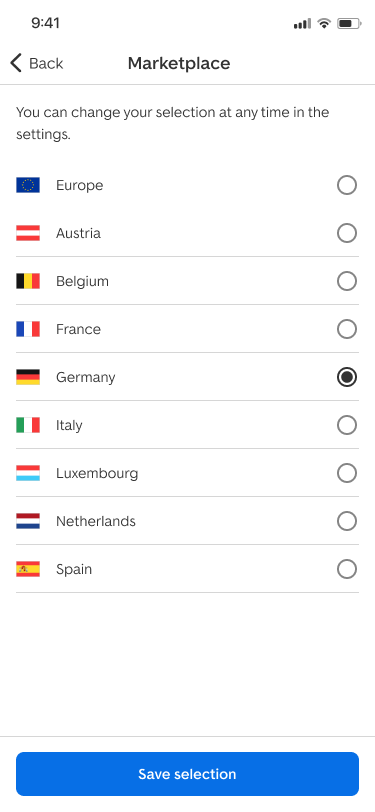
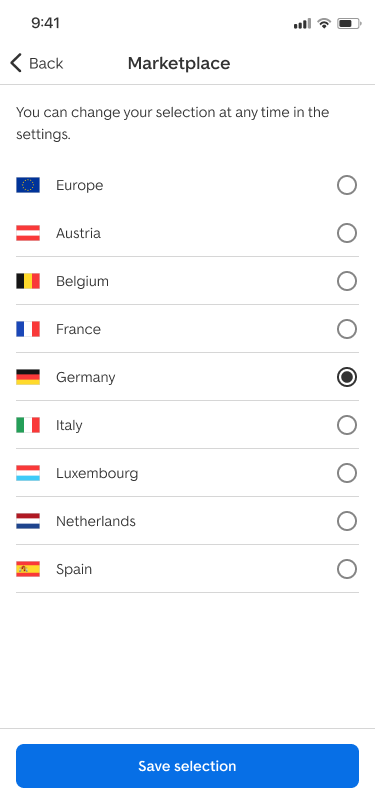
Favourites: team, search card comparison, mobile web and empty state
Add the cross-functional team, the search card next to the favourites
card, why image sizes follow each platform's search card, mobile web
screens with the empty state, and the confirmed outcome. Add UX Research
and content writers to the login team. Align the Marketplace button with
the other onboarding screens.

Claude-Session: https://claude.ai/code/session_01QWqCh6wzMNRSwyHv5Hem1Z

Changed region(s): [[0.0293, 0.8929, 0.968, 0.9852]]

diff --git a/src/content/projects.ts b/src/content/projects.ts
@@ -37,7 +37,7 @@ export const selectedProjects: Project[] = [
       },
       {
         heading: "My Role & Team",
-        body: "The work spanned three teams. The app team was a PM, a designer and four engineers (two iOS, two Android). The web team, where I sat, was a PM, two designers and four engineers. Trust & Identity, a PM and three engineers, owned the login logic, kept everything within our Okta setup and made sure each change met our security standards. One data analyst supported all the teams.\n\nI owned the end-to-end design of every experiment in this case study: framing the hypotheses with the PM, designing all states across iOS, Android, web and mWeb, preparing test variants, and presenting results and next steps to the wider design and product organisation at UX All Hands.",
+        body: "The work spanned three teams. The app team was a PM, a designer and four engineers (two iOS, two Android). The web team, where I sat, was a PM, two designers and four engineers. Trust & Identity, a PM and three engineers, owned the login logic, kept everything within our Okta setup and made sure each change met our security standards. One data analyst supported all the teams, and we worked with UX Research on testing and with content writers on the copy for every login moment.\n\nI owned the end-to-end design of every experiment in this case study: framing the hypotheses with the PM, designing all states across iOS, Android, web and mWeb, preparing test variants, and presenting results and next steps to the wider design and product organisation at UX All Hands.",
       },
       {
         heading: "Constraints",
@@ -226,25 +226,25 @@ export const selectedProjects: Project[] = [
       height: 1080,
     },
     overview:
-      "Favourites was one of AutoScout24's five most-visited screens. Users came back to it again and again as a personal shortlist, yet it hadn't been redesigned in years and gave them almost no way to act. The goal: turn the screen where buyers make their decision into one that helps them make it.",
+      "Favourites was one of AutoScout24's key engagement screens: the third most active in the apps and on web, after search results and vehicle detail pages. Users came back to it again and again as a personal shortlist, yet it hadn't been redesigned in years and gave them almost no way to act. The goal: turn the screen where buyers make their decision into one that helps them make it.",
     sections: [
       {
         heading: "The Problem",
         body: "The screen was a passive list with no hierarchy and no clear next step. Users couldn't tell at a glance whether a price was competitive, couldn't contact a seller without leaving the list, couldn't sort or remove vehicles in bulk, and hit a dead end when a listing was sold. A screen sitting at the most important decision point did almost nothing to move users forward.",
         image: {
-          src: "/images/projects/project-1/screens/card-before.png",
-          alt: "The previous Favourites card on mobile web",
-          width: 351,
-          height: 659,
+          src: "/images/projects/project-1/detail-1.png",
+          alt: "Original Favourites screen",
+          width: 1200,
+          height: 800,
         },
       },
       {
         heading: "My Role & Team",
-        body: "[verify: team, timeframe and platforms shipped.]\n\nI led the project from research to release: I ran the user survey, mapped the opportunities, designed the new card and screen across iOS, Android and web, and worked with engineering on the A/B test.",
+        body: "A cross-functional team across apps and web: one PM, four app engineers (two iOS, two Android) and five web engineers (three frontend, two backend), with a data analyst when we needed one. UX Research supported the survey and testing.\n\nI led the project from research to release: I ran the user survey, mapped the opportunities, designed the new card and screen across iOS, Android and web, and worked with engineering on the A/B test.",
       },
       {
         heading: "Research",
-        body: "I ran a survey across the German and Austrian markets with 1,142 respondents on iOS and Android. Users treat Favourites as a shortlist to narrow down their choices. Price is the main thing they track, they check back regularly for updates, and they want to know how long a car has been listed. Mapping these needs against the existing screen surfaced over a dozen improvement opportunities.",
+        body: "To understand how people actually use their shortlist, I ran a survey across the German and Austrian markets with 1,142 respondents on iOS and Android. Users treat Favourites as a shortlist to narrow down their choices. Price is the main thing they track, they check back regularly for updates, and they want to know how long a car has been listed. Mapping these needs against the existing screen surfaced over a dozen improvement opportunities.",
       },
       {
         heading: "Constraints",
@@ -253,16 +253,17 @@ export const selectedProjects: Project[] = [
       {
         heading: "Decisions & Trade-offs",
         body: "Same language, richer actions. I kept the search card's structure and attribute pills, but made price the most prominent element, paired with an indicator showing whether it's a good deal. On search, a card's job is to get users to the detail page. On Favourites, users have already chosen, so the card could go further: a swipeable gallery and a direct contact button, right on the shortlist.\n\nThe contact button was the biggest bet. Putting the main buying action on the card saves a click at exactly the right moment, but it also risked lower-quality leads from quick taps. We chose to test it rather than debate it.\n\nAround the card, I added sorting by date added, price, mileage and year, single and bulk removal, and a recommender of similar vehicles at the end of the list.",
-        image: {
-          src: "/images/projects/project-1/detail-2.png",
-          alt: "Favourites redesign showing new card design with contact CTA and price indicator",
-          width: 1200,
-          height: 800,
+        gallery: {
+          variant: "cards",
+          items: [
+            { src: "/images/projects/project-1/screens/card-search.png", alt: "Search results card", caption: "Search results card: built to get users to the detail page" },
+            { src: "/images/projects/project-1/screens/card-favourites.png", alt: "Favourites card with email and call buttons", caption: "Favourites card: same language, with contact actions on the card" },
+          ],
         },
       },
       {
         heading: "One Card, Every Listing",
-        body: "A shortlist mixes very different listings, so the card had to hold all of them without breaking. I designed a full set of variants on the same structure: deals with a struck-through price, cars the user has already contacted, listings that are no longer available, private sellers, leasing offers and sponsored placements.\n\nThe two states that mattered most were the ones the old screen ignored. A contacted car now says when the user got in touch, so they don't contact the same seller twice. A sold car is greyed out with a one-tap delete, instead of silently cluttering the list.",
+        body: "A shortlist mixes very different listings, so the card had to hold all of them without breaking. The cards below are the iOS versions. I designed a full set of variants on the same structure: deals with a struck-through price, cars the user has already contacted, listings that are no longer available, private sellers, leasing offers and sponsored placements.\n\nThe two states that mattered most were the ones the old screen ignored. A contacted car now says when the user got in touch, so they don't contact the same seller twice. A sold car is greyed out with a one-tap delete, instead of silently cluttering the list.\n\nImage size follows each platform's search card. On iOS the photo is small, matching the iOS search results; on mobile web it is large, so the car itself does more of the selling. Those search card layouts had been established through a series of A/B tests over half a year, so instead of running our own tests on card structure, we built on what they had proven.",
         gallery: {
           variant: "cards",
           items: [
@@ -277,7 +278,7 @@ export const selectedProjects: Project[] = [
       },
       {
         heading: "The Shipped Screens",
-        body: "On iOS the list follows platform conventions: a native sort sheet with options users asked for in the survey, removal confirmed with a snackbar that offers undo instead of a blocking dialog, and full dark mode support. When the list ends, a recommender of similar cars keeps discovery going without pulling users away from their shortlist. [verify: empty state design]",
+        body: "On iOS the list follows platform conventions: a native sort sheet with options users asked for in the survey, removal confirmed with a snackbar that offers undo instead of a blocking dialog, and full dark mode support. When the list ends, a recommender of similar cars keeps discovery going without pulling users away from their shortlist.",
         gallery: {
           items: [
             { src: "/images/projects/project-1/screens/fav-list.png", alt: "Favourites list on iOS", caption: "The shortlist" },
@@ -289,7 +290,17 @@ export const selectedProjects: Project[] = [
         },
       },
       {
-        heading: "Web",
+        heading: "Mobile Web",
+        body: "On mobile web the card leads with a large, swipeable photo, following the mobile web search card. An empty list is not a dead end: it explains what Favourites is for, offers a way to start searching, and shows recommendations straight away.",
+        gallery: {
+          items: [
+            { src: "/images/projects/project-1/screens/fav-mweb-list.png", alt: "Favourites on mobile web with a large photo card", caption: "Large photos on mobile web" },
+            { src: "/images/projects/project-1/screens/fav-mweb-empty.png", alt: "Empty Favourites state with benefits and a search button", caption: "Empty state: why to save, and where to start" },
+          ],
+        },
+      },
+      {
+        heading: "Desktop",
         body: "On desktop the same card spreads into a horizontal layout inside the account area, with the photo, price rating and both contact actions visible at once.",
         gallery: {
           variant: "desktop",
@@ -300,7 +311,7 @@ export const selectedProjects: Project[] = [
       },
       {
         heading: "Outcome",
-        body: "The A/B test with the new card and contact buttons increased enquiries by ~5.5%. Users were ready to act from their shortlist; they just needed the path made easy. [verify: test length, platforms and any secondary metrics]",
+        body: "The A/B test with the new card and contact buttons increased enquiries by ~5.5% across all platforms combined. Enquiries are the metric that matters most on a marketplace, because they turn browsing into leads for dealers.\n\nUsers were ready to act from their shortlist; they just needed the path made easy. Favourites stopped being a passive collection and became a place where users could act, and did.",
       },
     ],
   },

diff --git a/src/components/ScreenGallery.tsx b/src/components/ScreenGallery.tsx
@@ -36,7 +36,9 @@ export function ScreenGallery({ gallery }: { gallery: Gallery }) {
         ? "max-w-5xl mx-auto"
         : ""
       : items.length <= 2
-        ? "max-w-xl mx-auto"
+        ? gallery.variant === "cards"
+          ? "max-w-3xl mx-auto"
+          : "max-w-xl mx-auto"
         : items.length === 3
           ? "max-w-3xl mx-auto"
           : "";
